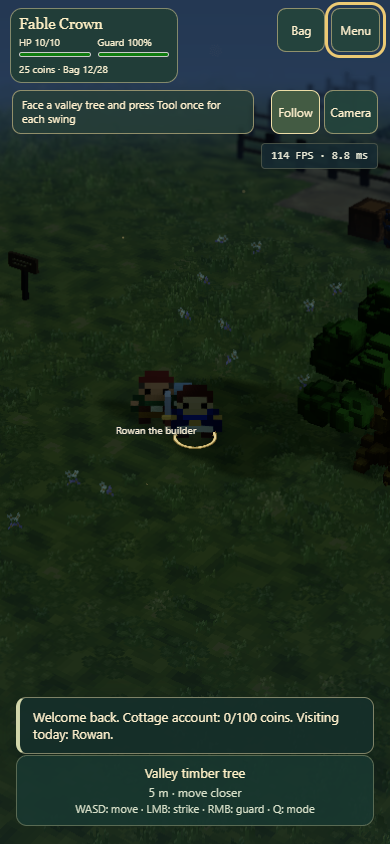
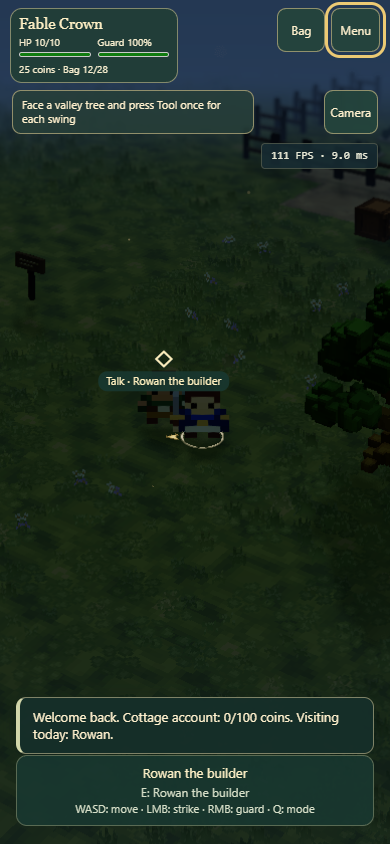
Record public world-controls verification [skip ci]

diff --git a/docs/PROGRESS.md b/docs/PROGRESS.md
@@ -4,7 +4,9 @@
 
 Always-follow valley camera, eased movement lead (cap1.1m), idle settling and reduced-motion handling; no parked pan/right-stick camera. Find pins destinations. Forward-facing nearby actions share the target marker; small depth-tested 3D ground ring/arrow shows facing and conforms to terrain at fixed world scale. Touch world activation disabled outside placement; mouse requires real range and consumes its click. Service props have hit areas, RMB guard works over world objects, selected recovery bags stay distinct. Current saves/legacy camera/balance retained. Rules and actual captures: CONTROLS_REVIEW.md.
 
-Lead integrated input/worker/UI; camera and targeting specialists supplied isolated modules/tests; camera specialist independently reviewed integration.826units/90files, strict types/Pages-base build/assets/dist and2release cases pass.27distinct local WebGL scenarios verified across broad run and focused reruns; final candidateece04d1e7981 passes14affected cases (13together plus peaceful craft/trade rerun). Final65d1f54a0221 replaces the screen direction element with actual terrain-conforming geometry;4geometry tests and4affected WebGL scenarios pass, with new actual captures reviewed. Mouse-range, touch exclusion, world facing arrow, camera lead/settling, contextual menus, controller handover, recovery and current saves covered. No physical-device or new performance claim. Actual weekly42%used/~58%remaining; no reset/credits/paid calls. Publication verification pending.
+Lead integrated input/worker/UI; camera and targeting specialists supplied isolated modules/tests; camera specialist independently reviewed integration.826local units/90files, strict types/Pages-base build/assets/dist and2release cases pass.27distinct local WebGL scenarios verified across broad run and focused reruns; candidateece04d1e7981 passes14affected cases (13together plus peaceful craft/trade rerun). Final65d1f54a0221 uses actual terrain-conforming direction geometry;4geometry tests and4affected WebGL scenarios pass, with actual captures reviewed. No physical-device or new performance claim.
+
+Published84ea909 / Actions41327850995:830units/91files and all validate/browser/deploy gates pass. Public8b2306ff22de uses the exact local JS entry index-VjVsTSbx.js.3actual public WebGL cases verify movement lead/settling, world facing geometry, nearby-only mouse activation and touch exclusion/orientation. Cache upgrade preserves current format7 progress and old archives; offline WebGL/all11assets pass, with zero page errors/external requests. Evidence: release/controls-public.json, release/valley-public.json and screenshots/valley-controls. Actual weekly43%used/~57%remaining; no reset/credits/paid calls. Stop for playtesting.
 
 ## Interaction layouts and active-device controls — 2026-11-01
 
